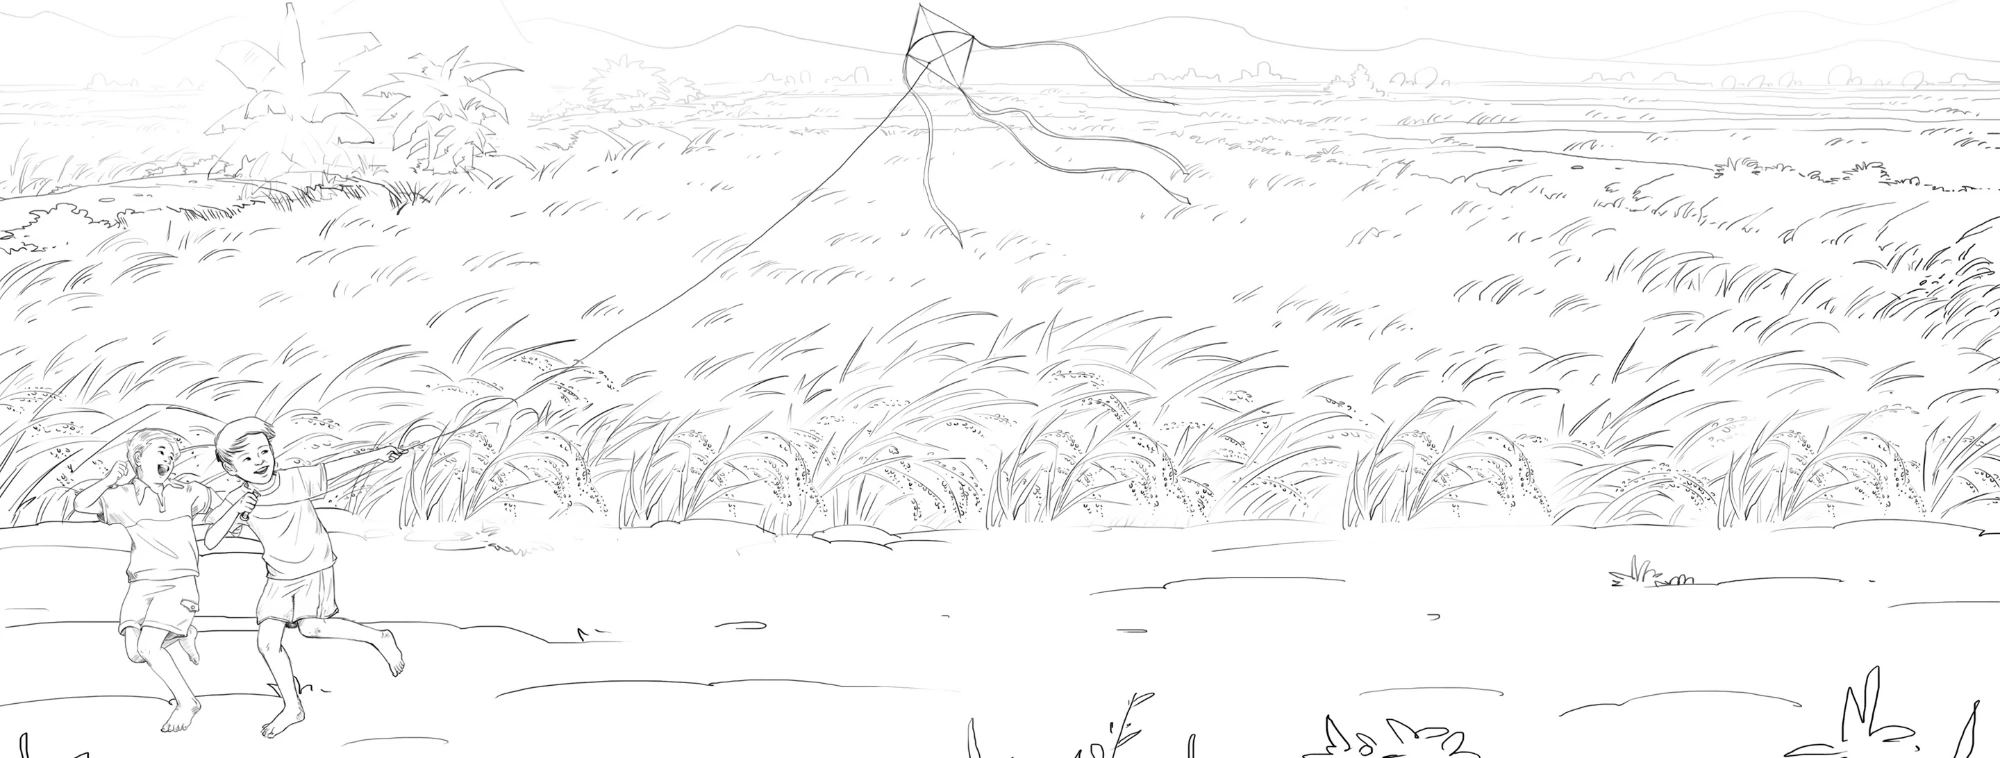
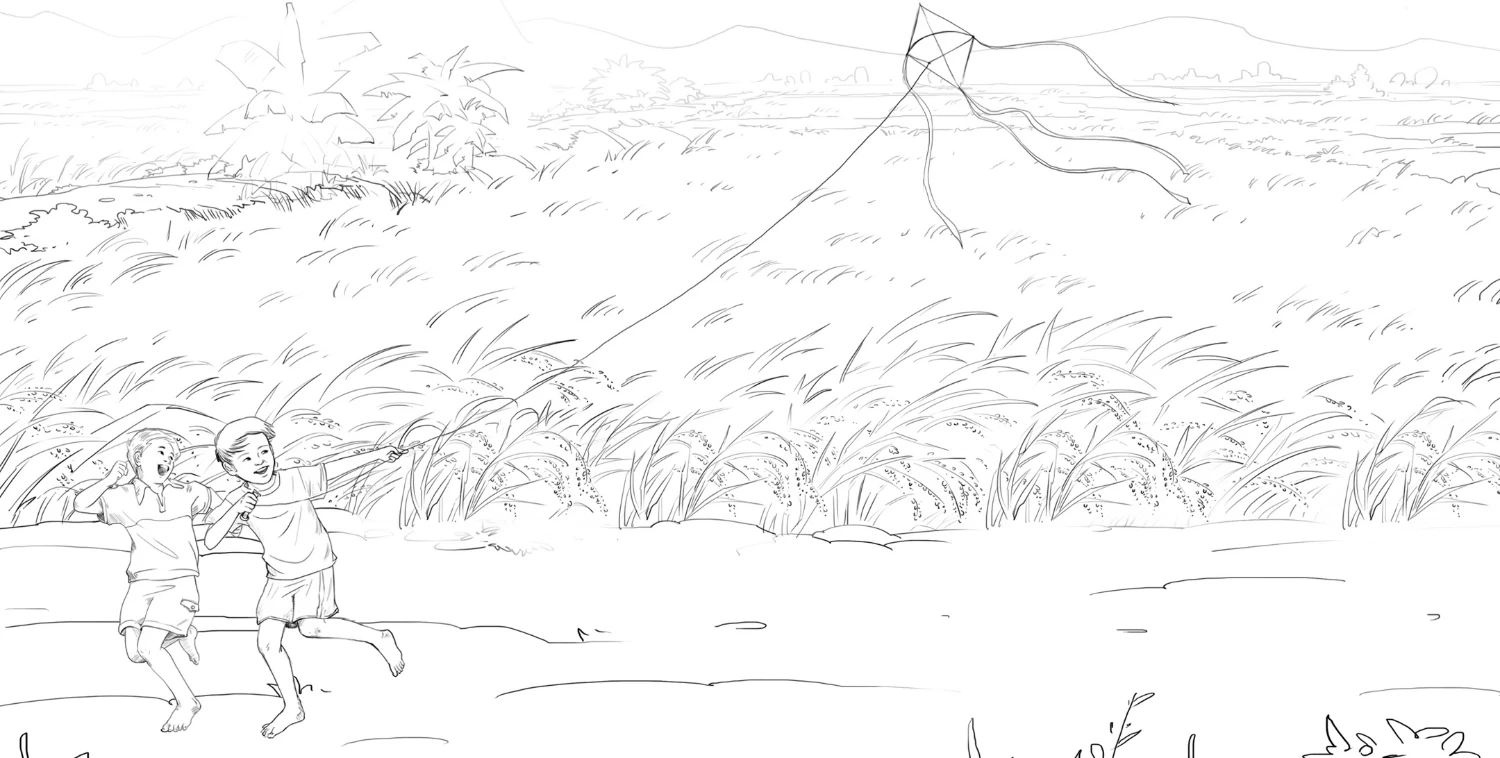
feat: update layout and styling for Home and AreaCard components

diff --git a/app/page.tsx b/app/page.tsx
@@ -25,7 +25,7 @@ export default function Home() {
 
     return (
         <main className="flex flex-col pb-8">
-            <div className="relative flex flex-col gap-3.5 bg-main px-5 pt-7 pb-16 rounded-b-3xl overflow-hidden text-white">
+            <div className="relative bg-main h-40 [clip-path:ellipse(75%_100%_at_50%_0)]">
                 {/* tranh nét đen nền trắng: invert + screen để thành nét sáng trên nền xanh */}
                 <Image
                     src={kite}
@@ -35,16 +35,24 @@ export default function Home() {
                     sizes="(max-width: 448px) 100vw, 448px"
                     className="opacity-100 invert object-cover mix-blend-screen"
                 />
-                <div className="relative flex flex-col gap-1">
-                    <h1 className="font-bold text-2xl leading-tight">Chọn khu vực làm việc</h1>
-                </div>
-                <span className="relative flex items-center self-start gap-2 bg-main-soft px-3 py-1.5 rounded-full font-medium text-sm">
-                    <span aria-hidden="true" className="bg-run-light rounded-full size-2" />
-                    {total.active}/{total.total} máy đang chạy
-                </span>
             </div>
 
-            <div className="relative flex flex-col gap-3.5 -mt-9 px-4">
+            {/* khối tiêu đề nằm giữa mép ảnh: nửa trên đè ảnh, nửa dưới ra nền */}
+            <div className="relative flex items-center gap-4 bg-card shadow-lg shadow-main/10 -mt-10 mx-4 px-5 py-4 border border-line rounded-2xl">
+                <div className="flex flex-col flex-1 gap-0.5 min-w-0">
+                    <h1 className="font-bold text-mainText text-lg leading-tight">Chọn khu vực làm việc</h1>
+                    <p className="text-subText text-sm">Chạm để xem danh sách máy</p>
+                </div>
+                <p className="flex flex-col items-end pl-4 border-line border-l leading-none shrink-0">
+                    <span className="font-bold text-main text-3xl">
+                        {total.active}
+                        <span className="font-medium text-subText text-base">/{total.total}</span>
+                    </span>
+                    <span className="mt-1 text-subText text-xs">máy đang chạy</span>
+                </p>
+            </div>
+
+            <div className="flex flex-col gap-3.5 mt-4 px-4">
                 <AreaCard
                     href={AREAS.cut.href}
                     title={AREAS.cut.title}
@@ -63,9 +71,6 @@ export default function Home() {
                     idle={press.idle}
                     stop={press.stop}
                 />
-                <p className="mx-1 mt-1.5 text-subText text-sm text-center leading-normal">
-                    Chạm vào một khu vực để xem danh sách máy
-                </p>
             </div>
         </main>
     );

diff --git a/components/machines/area-card.tsx b/components/machines/area-card.tsx
@@ -30,7 +30,7 @@ export function AreaCard({ href, title, meta, icon: Icon, run, idle, stop }: Pro
             className="flex flex-col gap-4 bg-card p-4 border border-line rounded-2xl focus-visible:outline-none focus-visible:ring-2 focus-visible:ring-ring w-full"
         >
             <span className="flex items-center gap-3">
-                <span className="flex justify-center items-center bg-main-tint rounded-xl size-11 text-main shrink-0">
+                <span className="flex justify-center items-center bg-main rounded-xl size-11 text-white shrink-0">
                     <Icon aria-hidden="true" className="size-5" />
                 </span>
                 <span className="flex flex-col flex-1 min-w-0">
